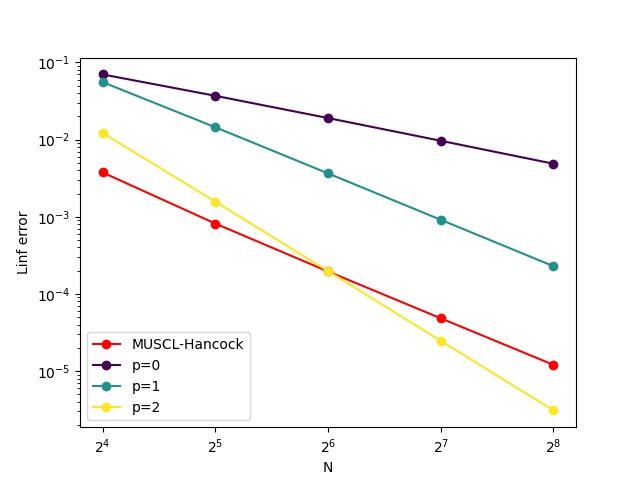
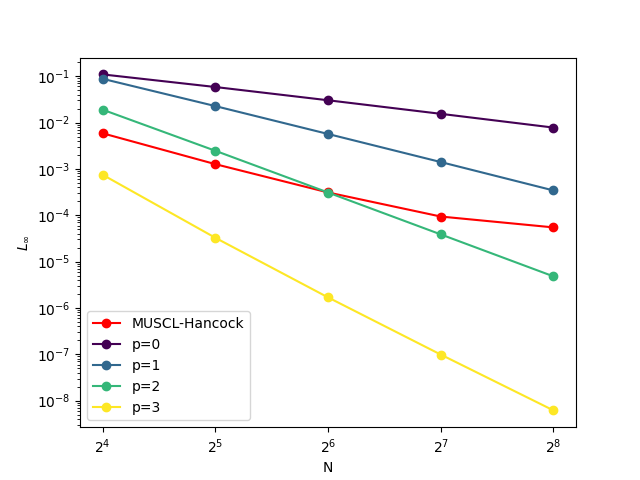
feat: euler advection convergence (with caveats), minmod SED

diff --git a/benchmarks/advection_error_convergence/EulerSolver/__main__.py b/benchmarks/advection_error_convergence/EulerSolver/__main__.py
@@ -6,20 +6,22 @@ import numpy as np
 import pandas as pd
 
 from superfv import EulerSolver, initial_conditions
-from superfv.tools.norms import l1_norm
+from superfv.tools.norms import linf_norm
 
 # problem inputs
 OUTPUT_NAME = "benchmarks/advection_error_convergence/EulerSolver/" + "plot.png"
 DIMS = "x"
 N_LIST = [16, 32, 64, 128, 256]
-P_LIST = [-1, 0, 1, 2]
+P_LIST = [-1, 0, 1, 2, 3]
 OTHER_INPUTS = dict(
     flux_recipe=1,
     lazy_primitives=False,
-    GL=False,
+    SED=True,
     ZS=True,
     adaptive_dt=False,
-    SED=True,
+    # MOOD=True,
+    # NAD=True,
+    # limiting_vars=("rho",),
 )
 MUSCL_INPUTS = dict(flux_recipe=2, MUSCL=True, MUSCL_limiter="moncen", SED=True)
 
@@ -42,7 +44,8 @@ for N, p in product(N_LIST, P_LIST):
             t,
             xp=xp,
             **{"v" + dim: len(DIMS) - i for i, dim in enumerate(DIMS)},
-            P=0,
+            bounds=(1e-8, 1.0),
+            P=1e-8,
         )
 
     # run solver
@@ -66,7 +69,7 @@ for N, p in product(N_LIST, P_LIST):
     rho_analytical = analytical_solution(
         idx, solver.mesh.X, solver.mesh.Y, solver.mesh.Z, 1.0, xp=np
     )[idx("rho")]
-    error = l1_norm(rho_numerical - rho_analytical)
+    error = linf_norm(rho_numerical - rho_analytical)
     data.append(dict(N=N, p=p, error=error))
 df = pd.DataFrame(data)
 
@@ -86,6 +89,6 @@ for p in P_LIST:
 ax.set_xscale("log", base=2)
 ax.set_yscale("log")
 ax.set_xlabel("N")
-ax.set_ylabel("Linf error")
+ax.set_ylabel(r"$L_\infty$")
 ax.legend()
 fig.savefig(OUTPUT_NAME)

diff --git a/superfv/slope_limiting/MOOD.py b/superfv/slope_limiting/MOOD.py
@@ -186,9 +186,9 @@ def detect_troubled_cells(fv_solver: FiniteVolumeSolver, t: float) -> Tuple[int,
     w_old = arrays["_w_"]
     u_new = arrays["buffer"][..., 0]
     buffer = arrays["buffer"]
-    NAD_violations = buffer[..., 1]
+    NAD_violations = buffer[..., 1][lim_slc]
     PAD_violations = buffer[..., 2][interior]
-    alpha = buffer[..., 3:4]
+    alpha = buffer[..., 3:4][lim_slc]
     buffer = buffer[..., 4:]
     troubles = arrays["troubles"]
     _troubles_ = arrays["_troubles_"]
@@ -228,7 +228,7 @@ def detect_troubled_cells(fv_solver: FiniteVolumeSolver, t: float) -> Tuple[int,
             (w_new if primitive_NAD else u_new)[lim_slc],
             active_dims,
             out=alpha,
-            buffer=buffer,
+            buffer=buffer[lim_slc],
         )
         troubles[0] = xp.any(
             xp.logical_and(NAD_violations[interior] < 0, alpha[..., 0][interior] < 1),

diff --git a/superfv/slope_limiting/muscl.py b/superfv/slope_limiting/muscl.py
@@ -117,13 +117,14 @@ def compute_limited_slopes(
 
     # write slopes to `out` array
     if limiter == "minmod":
-        if SED:
-            raise ValueError("SED is not supported with minmod limiter.")
         dlft[...] = u[slc_c] - u[slc_l]
         drgt[...] = u[slc_r] - u[slc_c]
+        dcen[...] = 0.5 * (dlft + drgt)
         dsgn[...] = xp.sign(dlft)
         dslp[...] = dsgn * xp.minimum(xp.abs(dlft), xp.abs(drgt))
         out[out_slc] = xp.where(dlft * drgt <= 0, 0, dslp)
+        if SED:
+            out[out_slc] = xp.where(alpha[out_slc] < 1, out[out_slc], dcen)
     elif limiter == "moncen":
         dlft[...] = u[slc_c] - u[slc_l]
         drgt[...] = u[slc_r] - u[slc_c]

diff --git a/TODO.md b/TODO.md
@@ -1,12 +1,12 @@
 changes:
 - [x] PAD should be checked on primitive variables in both a priori and a posteriori cases
 - [x] NAD should optionally be performed on primitives or conservatives
+- [x] at some point i created an Euler advection bug for flux recipes 2 and 3. take-away: SED is just sensitive for primitive variables
+- [x] SED for MUSCL-minmod
 
 todo:
-- [ ] SED for MUSCL-minmod
 - [ ] array allocation is a mess
 - [ ] Improve timer output and pause run_time during snapshots and minisnapshots
-- [ ] at some point i created an Euler advection bug for flux recipes 2 and 3
 
 Timer output:
 
